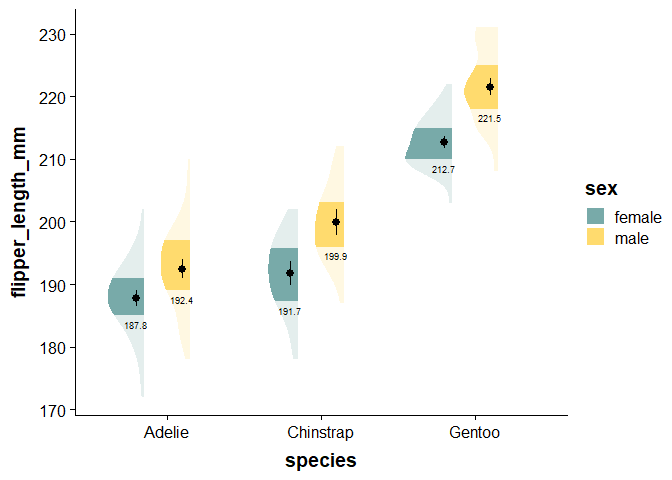
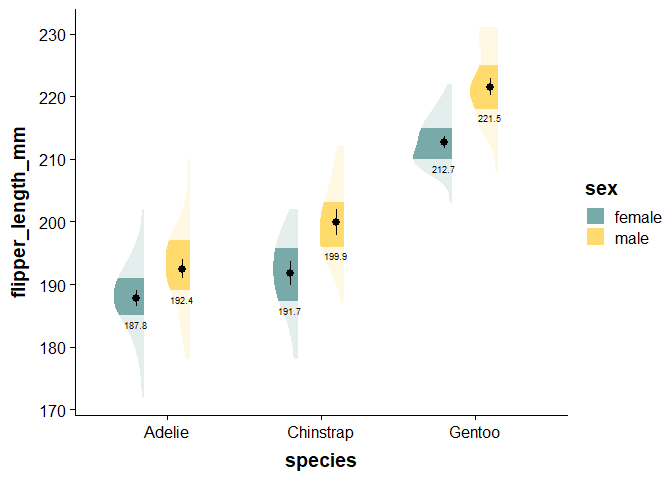
nhv

diff --git a/README.md b/README.md
@@ -317,7 +317,7 @@ ggplot(data = df,
            fill = sex)) +  # our third grouping/independent/interaction variable
     ggdist::stat_slab(
                      side = "left", 
-                     scale = 0.6, 
+                     scale = 0.5, 
                      position = position_dodge(width = .6), 
                      .width = c(.50, 1),
                      aes(fill_ramp = after_stat(level))) +
